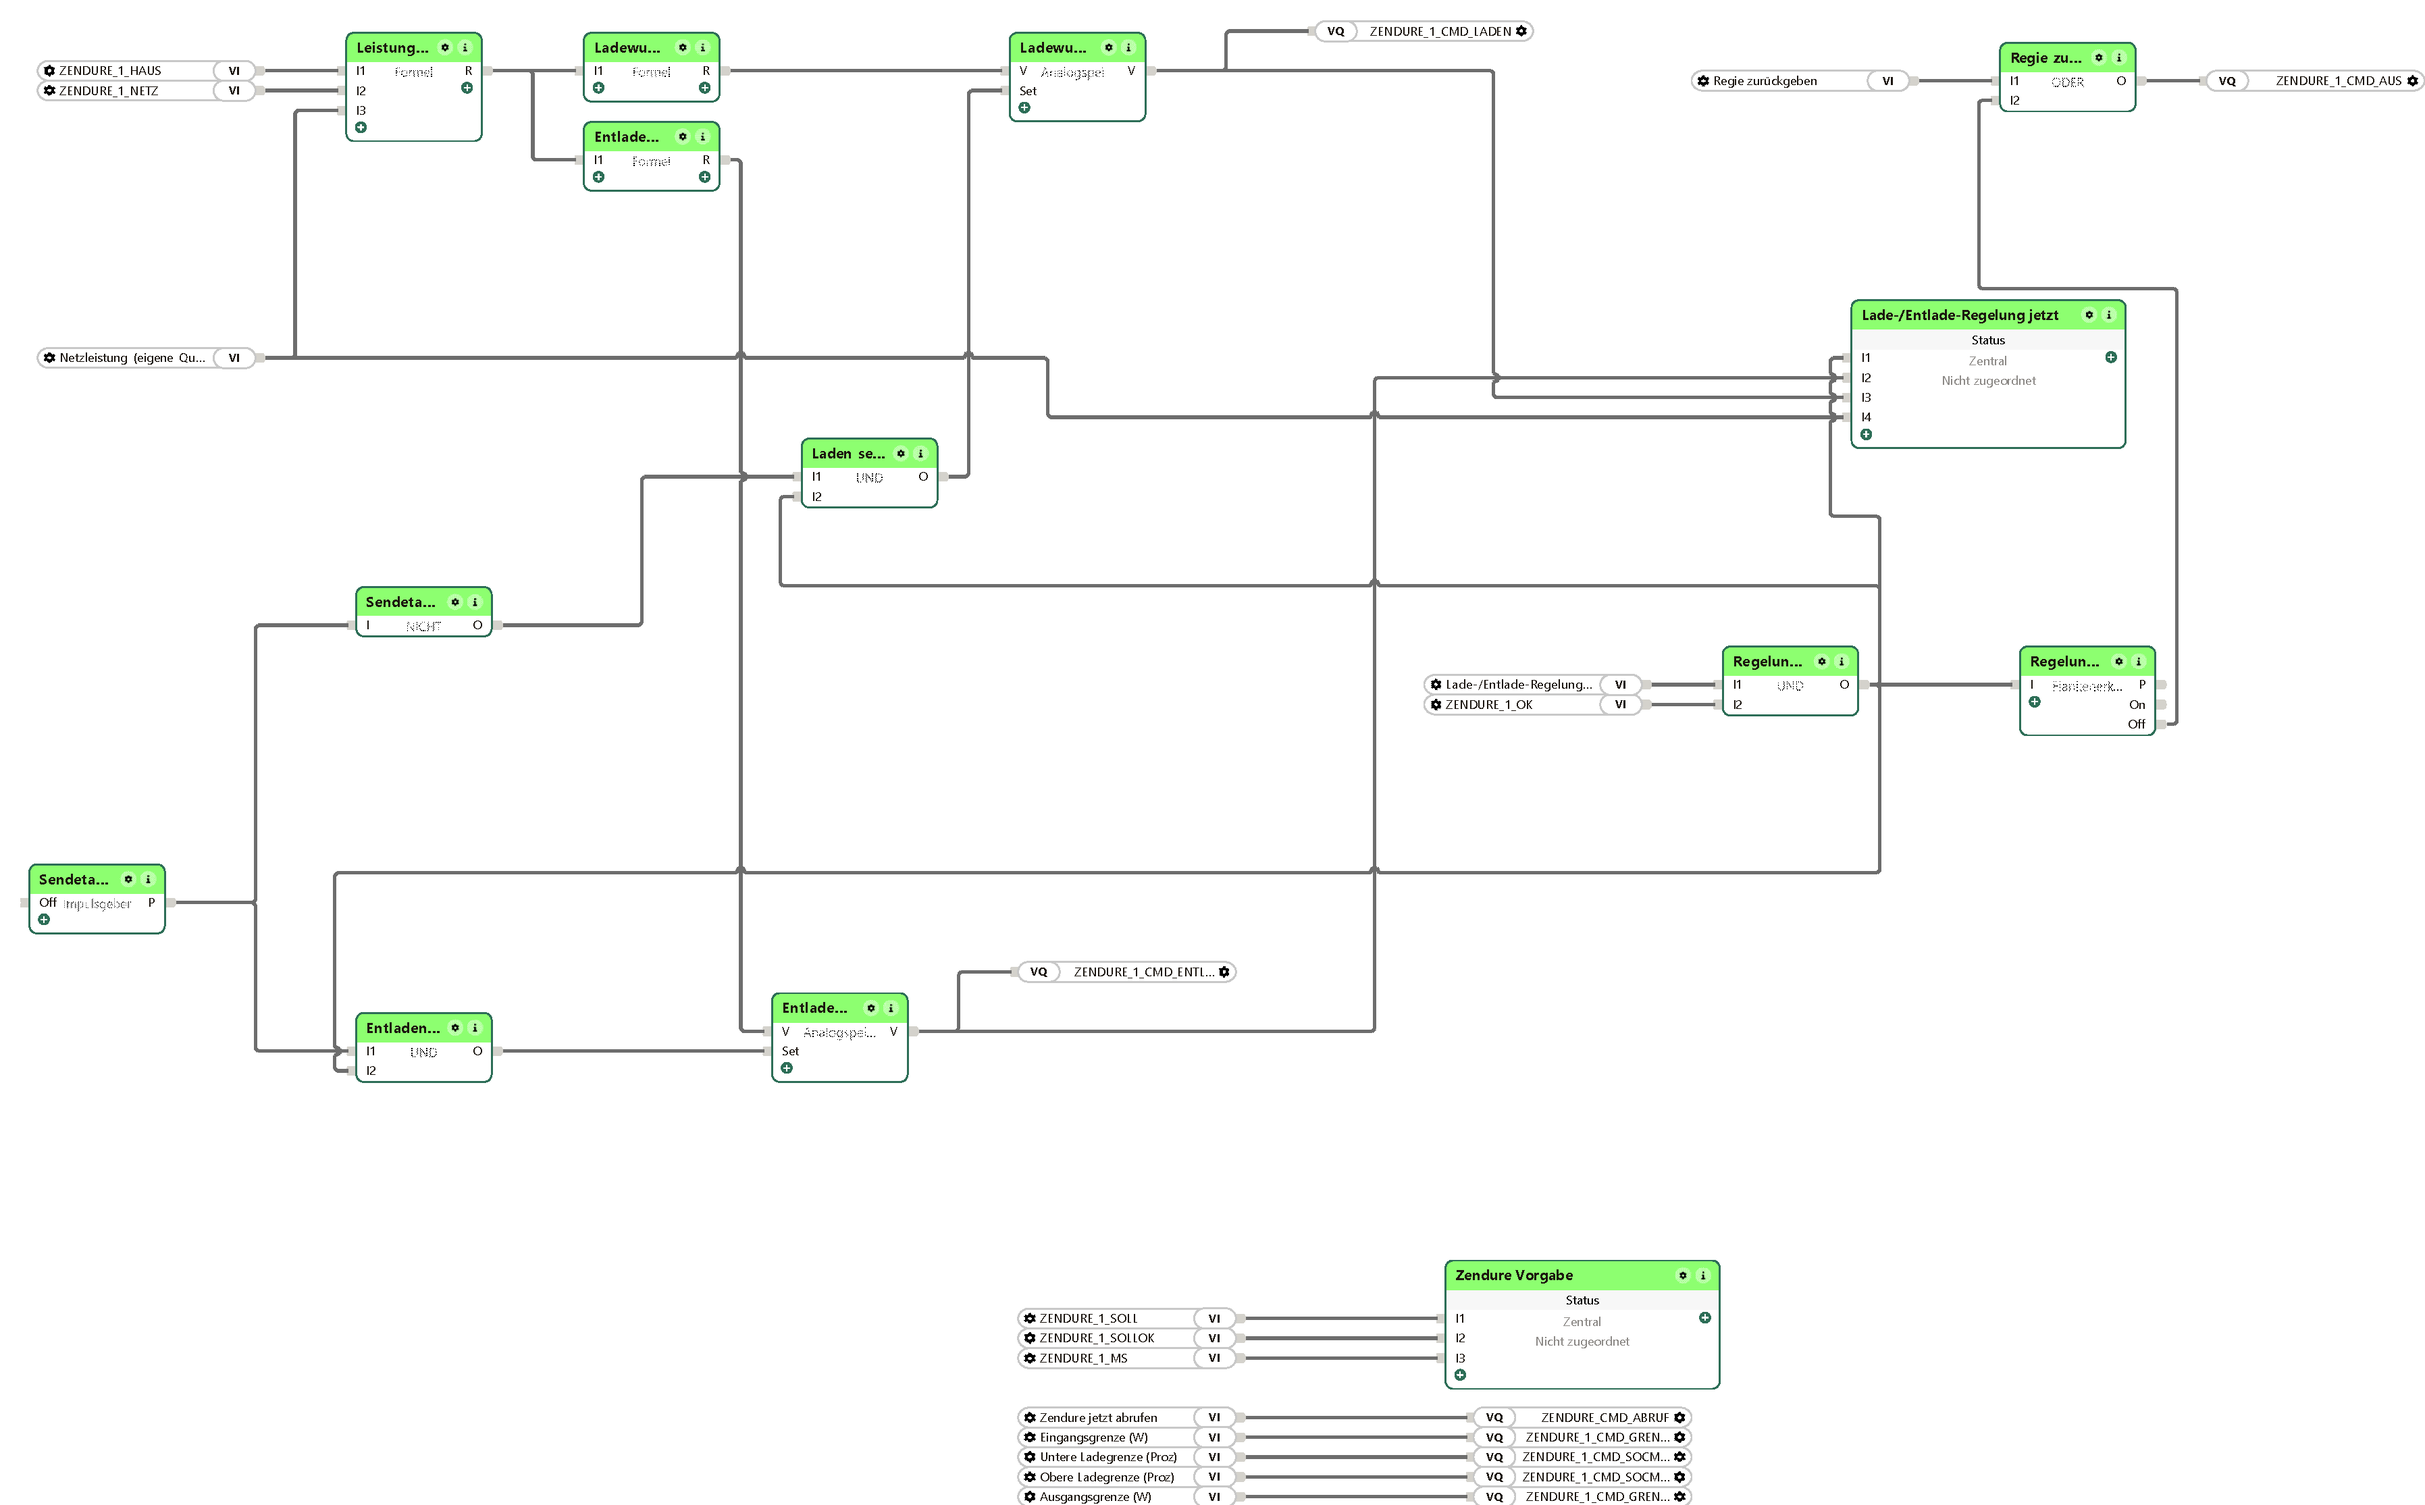
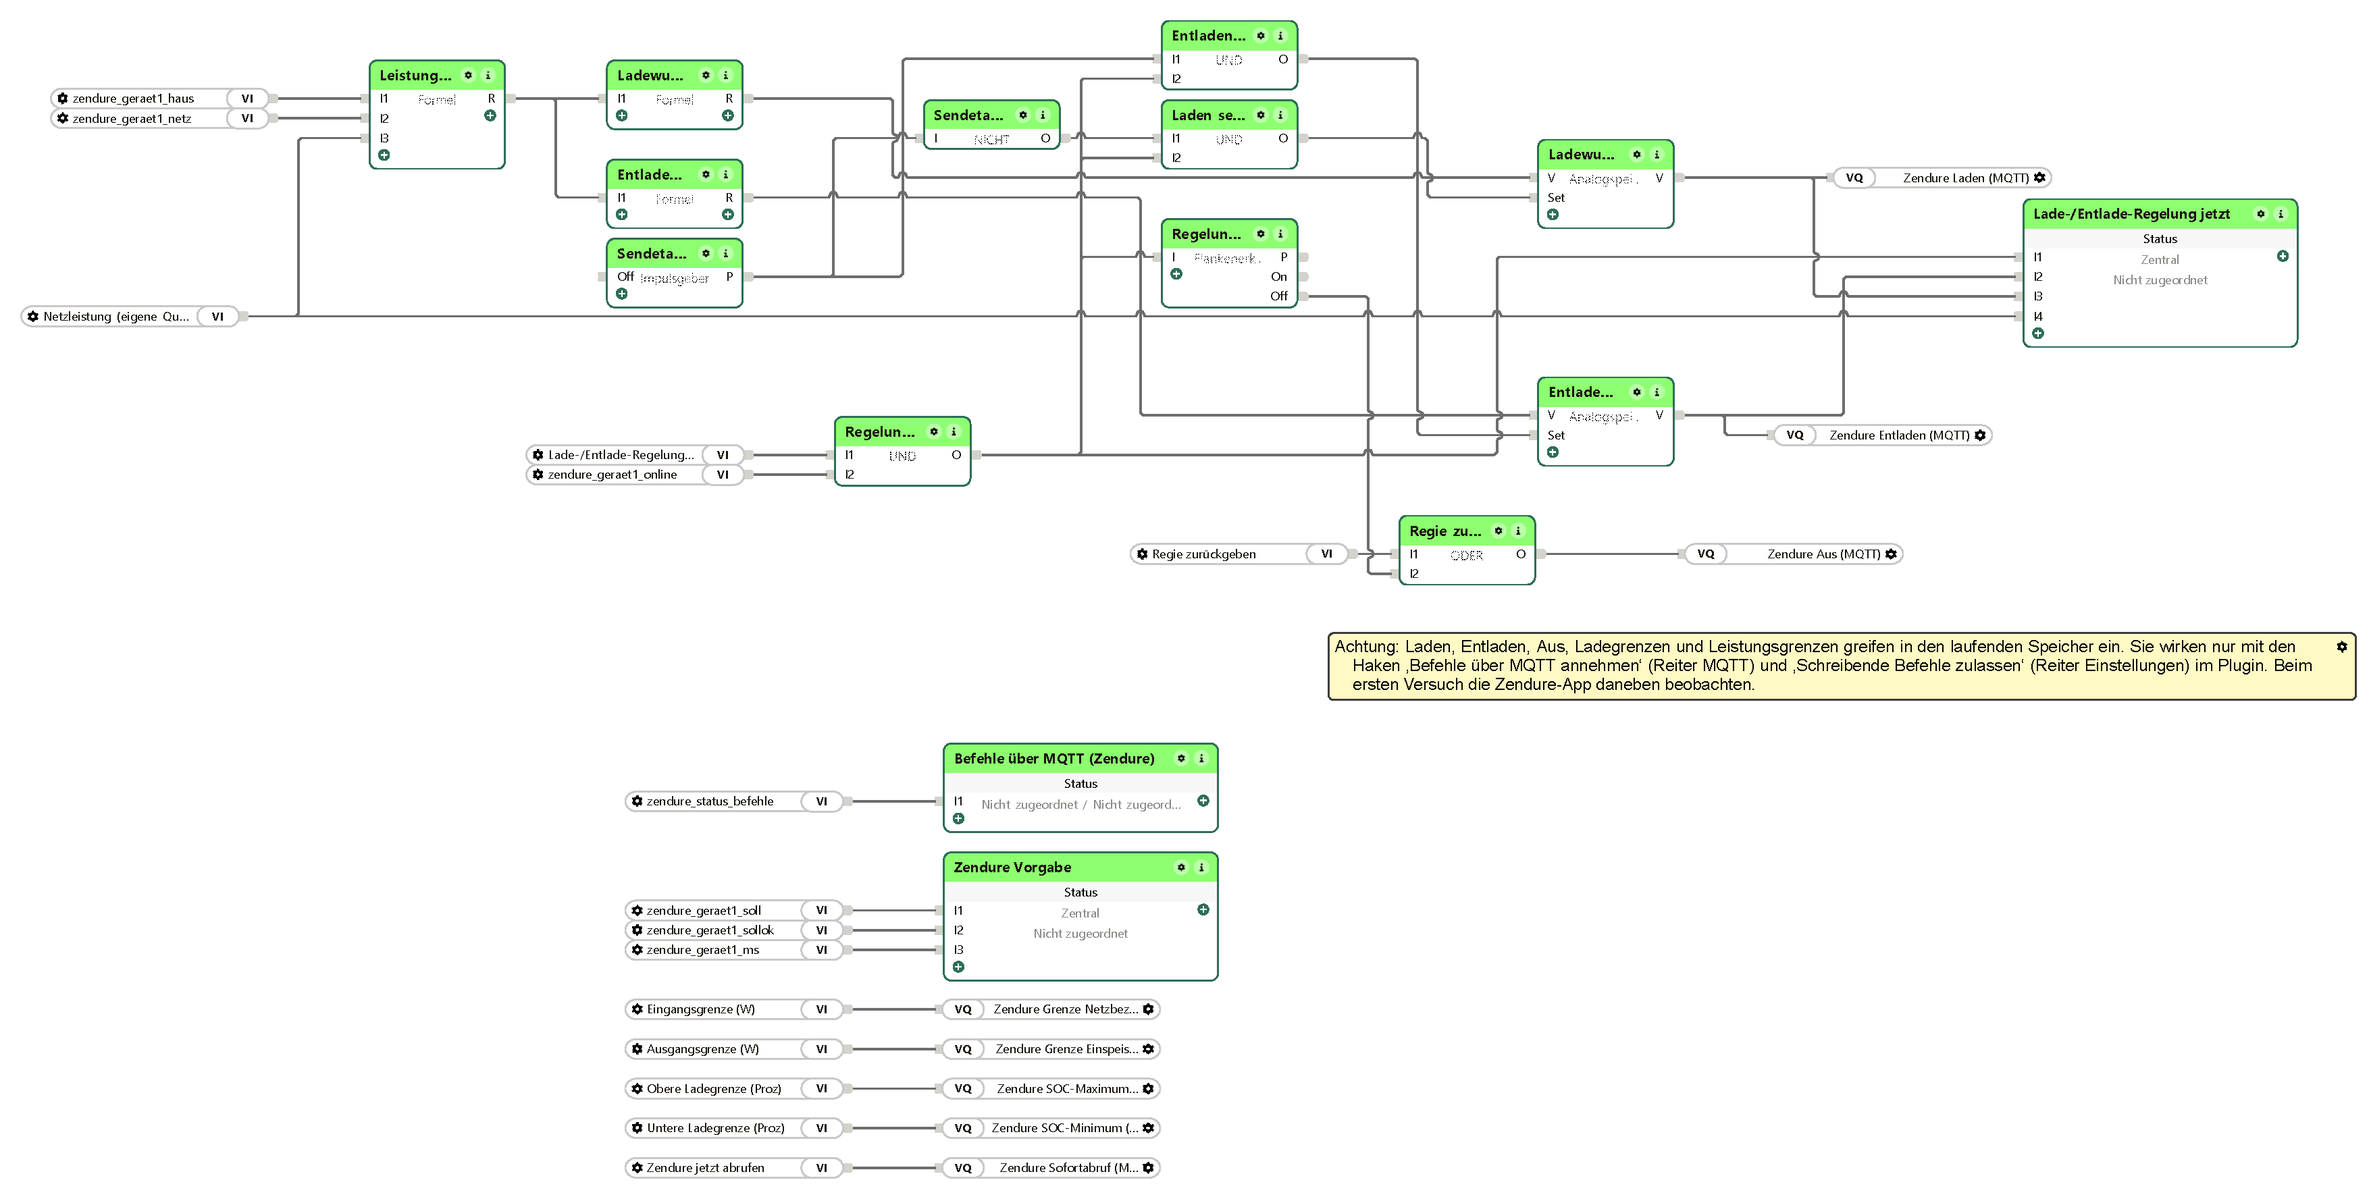
ZendureSolarFlow 0.9.39: Bilder der Einbindung erneuert (Musterprojekt 614cd0f)
Bilder der Einbindung erneuert: Die Seitenbilder zeigen jetzt die Musterprojekt-Seiten in der Hausform (MQTT-Gateway V2 und Befehlsbrücke statt der früheren HTTP-Vorlagen). Sonst keine Änderung gegen 0.9.38.

diff --git a/README.md b/README.md
@@ -4,7 +4,7 @@ Bindet **Zendure SolarFlow** an Loxone an — **ohne Cloud, ohne Zendure-Konto**
 Unterstützt beide lokalen Wege: die HTTP-Schnittstelle der neueren Geräte und
 lokales MQTT für die ältere Reihe.
 
-> **Version 0.9.38 — ohne Zendure-Gerät gebaut.** Aufbau, Sprachdateien,
+> **Version 0.9.39 — ohne Zendure-Gerät gebaut.** Aufbau, Sprachdateien,
 > Endpunkt und Oberfläche sind geprüft; ob die Eigenschaftsnamen der eigenen
 > Firmware passen und ob die Schreibbefehle am Gerät wirken, ist es **nicht**.
 > Deshalb 0.9.14 und nicht 1.0.0.
@@ -18,6 +18,10 @@ lokales MQTT für die ältere Reihe.
 > Die Selbstaktualisierung zeigt auf dieses Repository und ist eingeschaltet.
 > Bei gleicher Fassung wird niemandem ein Update angeboten; sobald 1.0.0
 > erscheint, greift sie von selbst.
+
+## Neu in 0.9.39
+
+Bilder der Einbindung erneuert: Die Seitenbilder zeigen jetzt die Musterprojekt-Seiten in der Hausform (MQTT-Gateway V2 und Befehlsbrücke statt der früheren HTTP-Vorlagen). Sonst keine Änderung gegen 0.9.38.
 
 ## Neu in 0.9.38 (Gruppe 43, Hausform)
 
